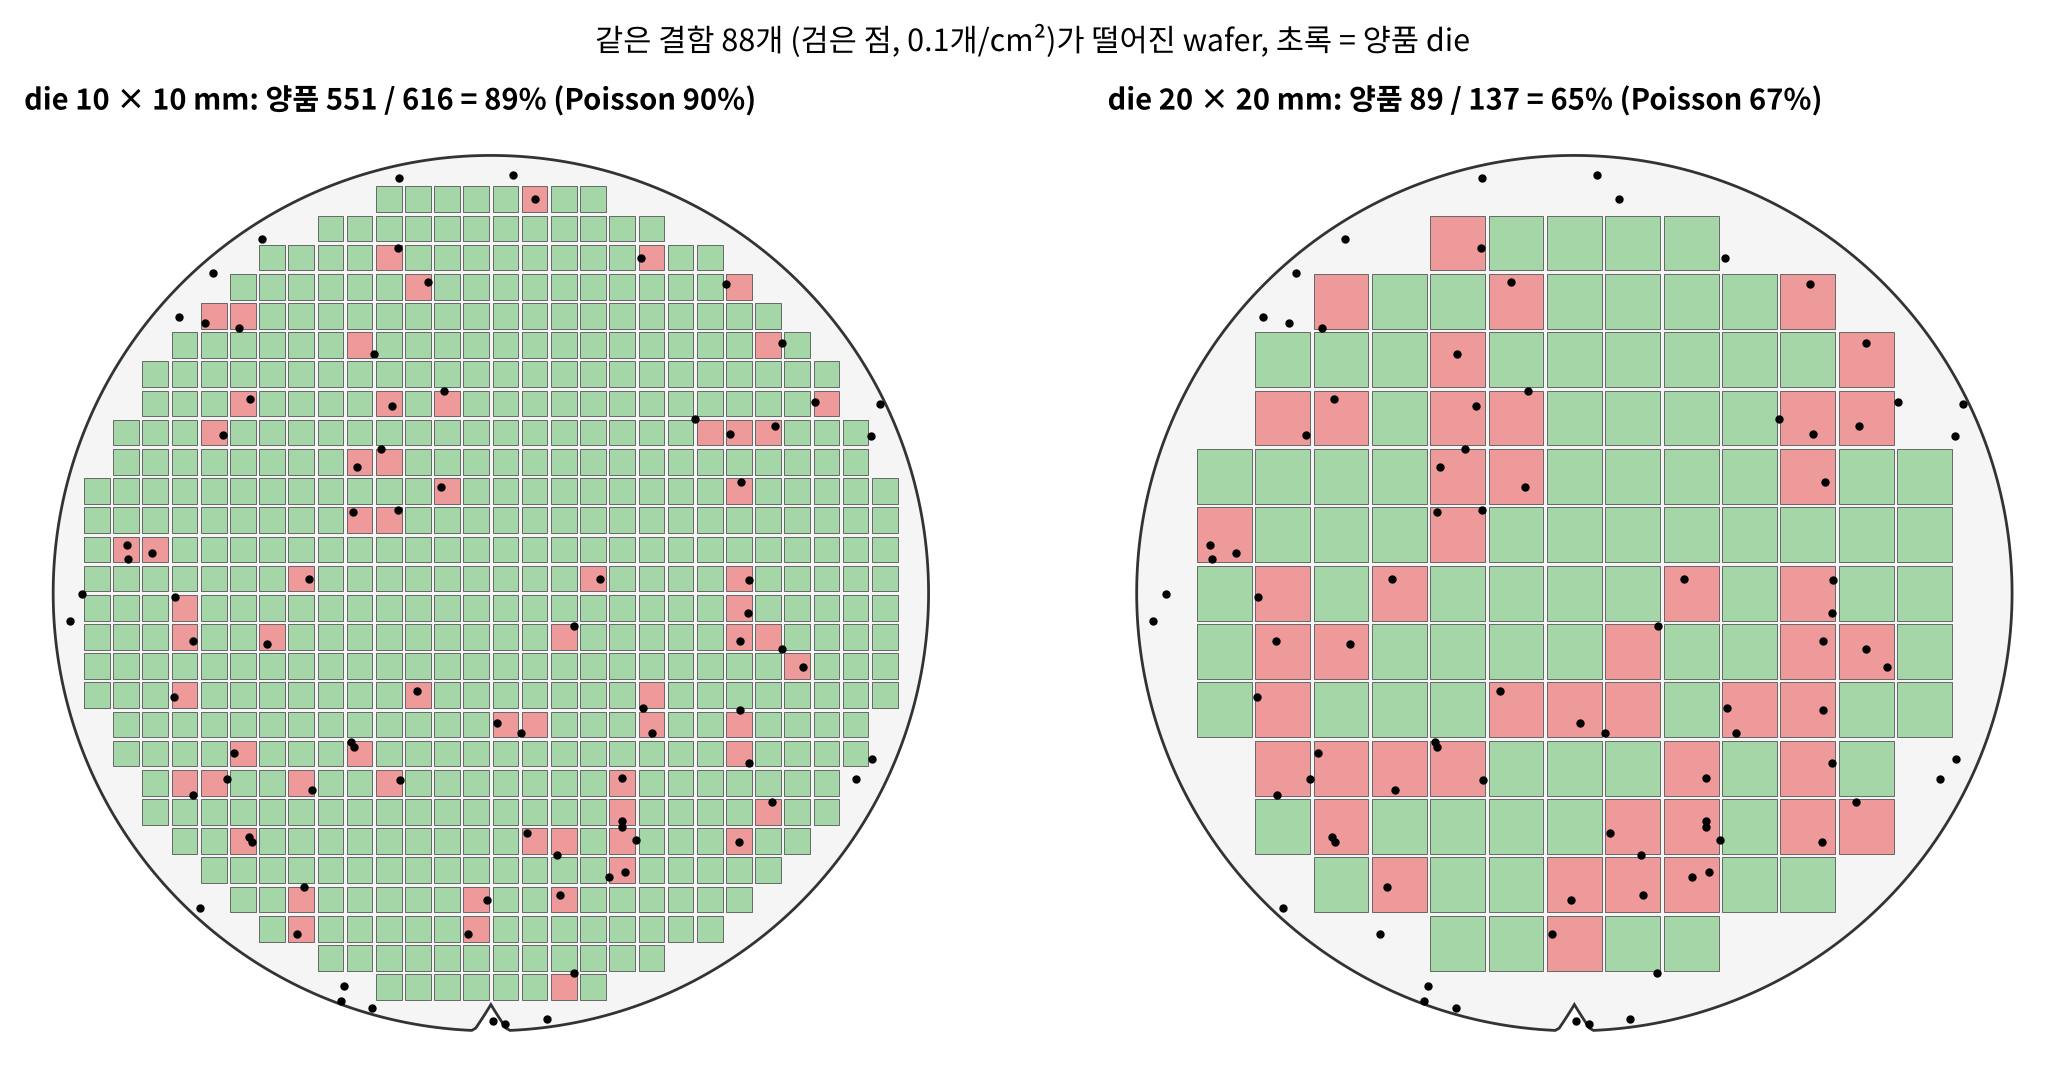
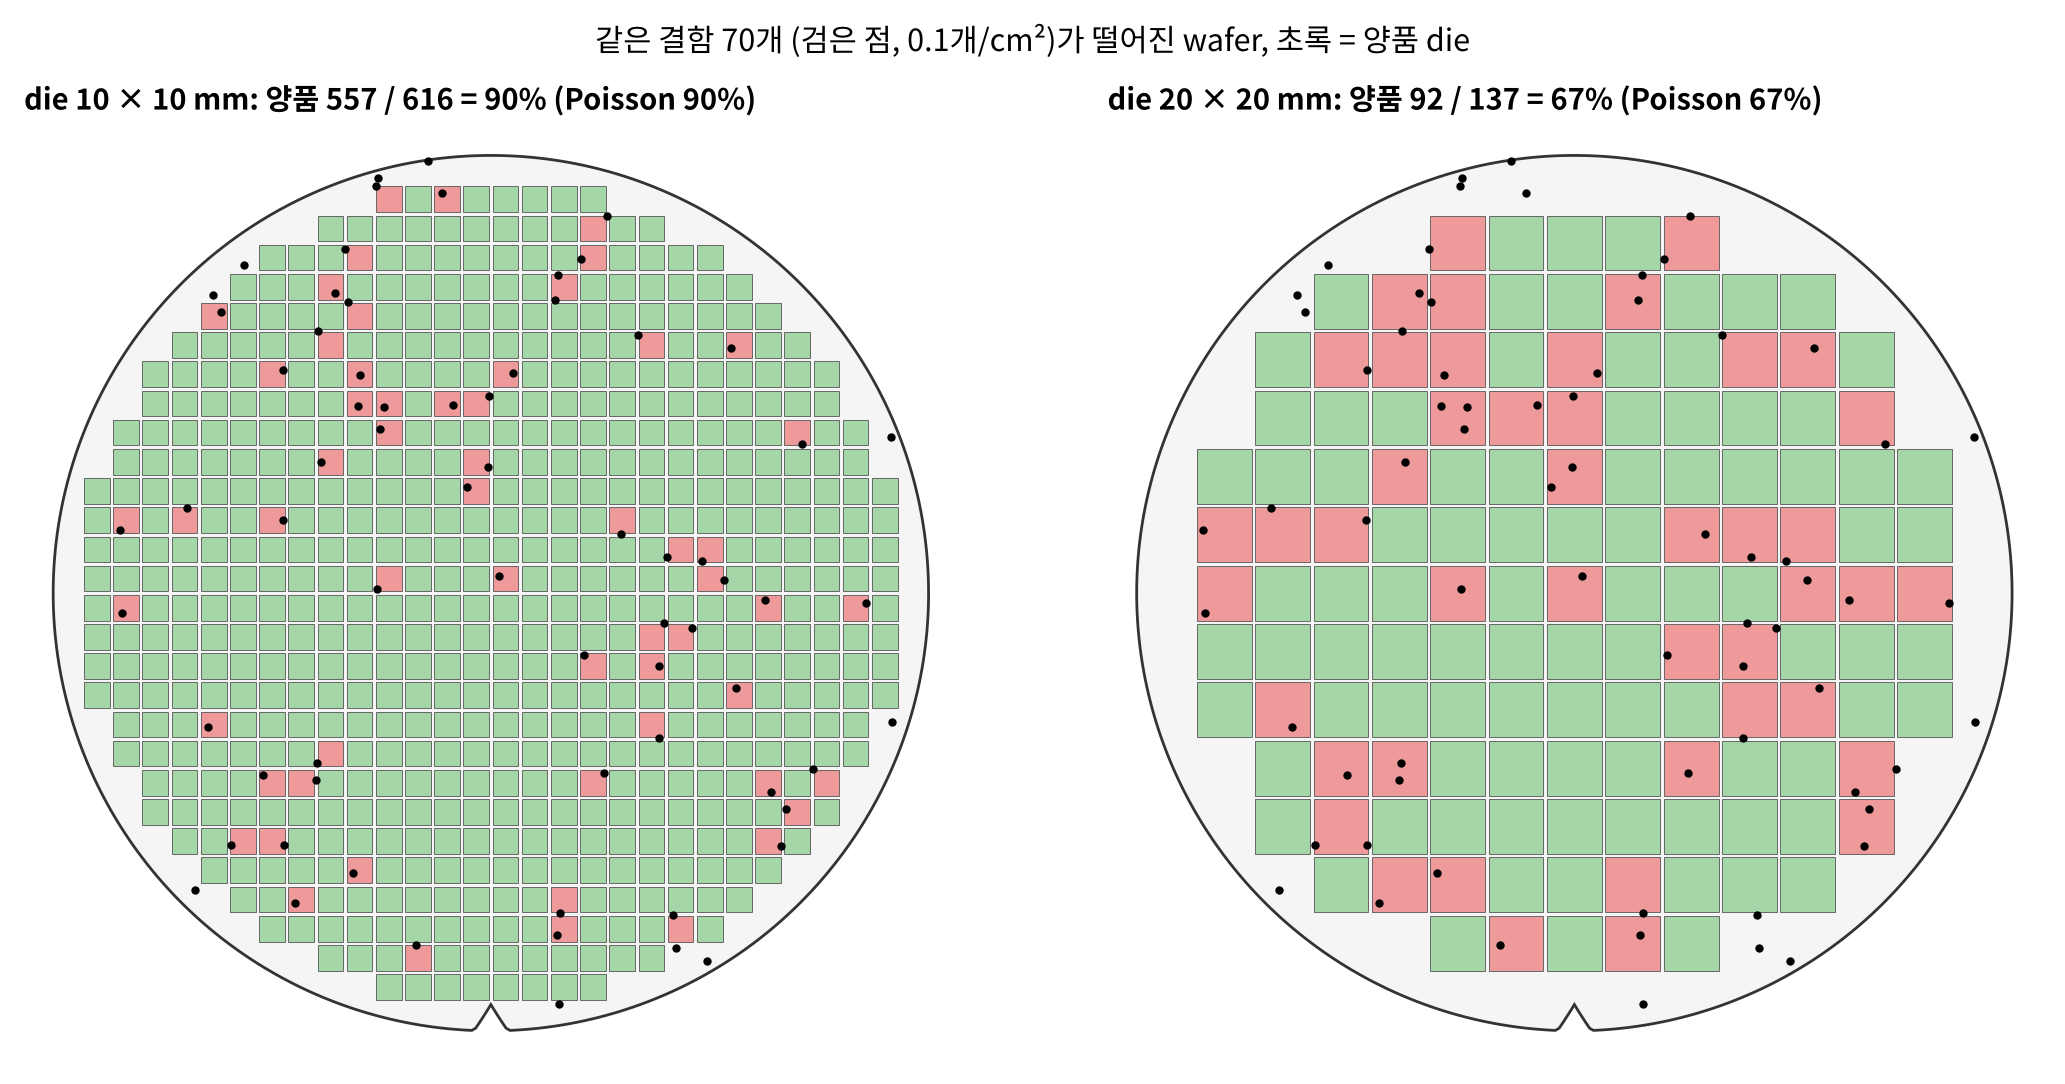
Use a defect sample that matches the stated density in the die-size yield figure

diff --git a/figs/36_test.py b/figs/36_test.py
@@ -135,7 +135,7 @@ ax.legend(fontsize=9)
 save(f, P, "yield_models")
 
 # 7. die 크기와 수율 (같은 결함 분포)
-rng = np.random.default_rng(4)
+rng = np.random.default_rng(26)
 R, EDGE = 150.0, 3.0
 D0 = 0.1                                   # 개/cm²
 nd = rng.poisson(D0 * np.pi * (R / 10) ** 2)
